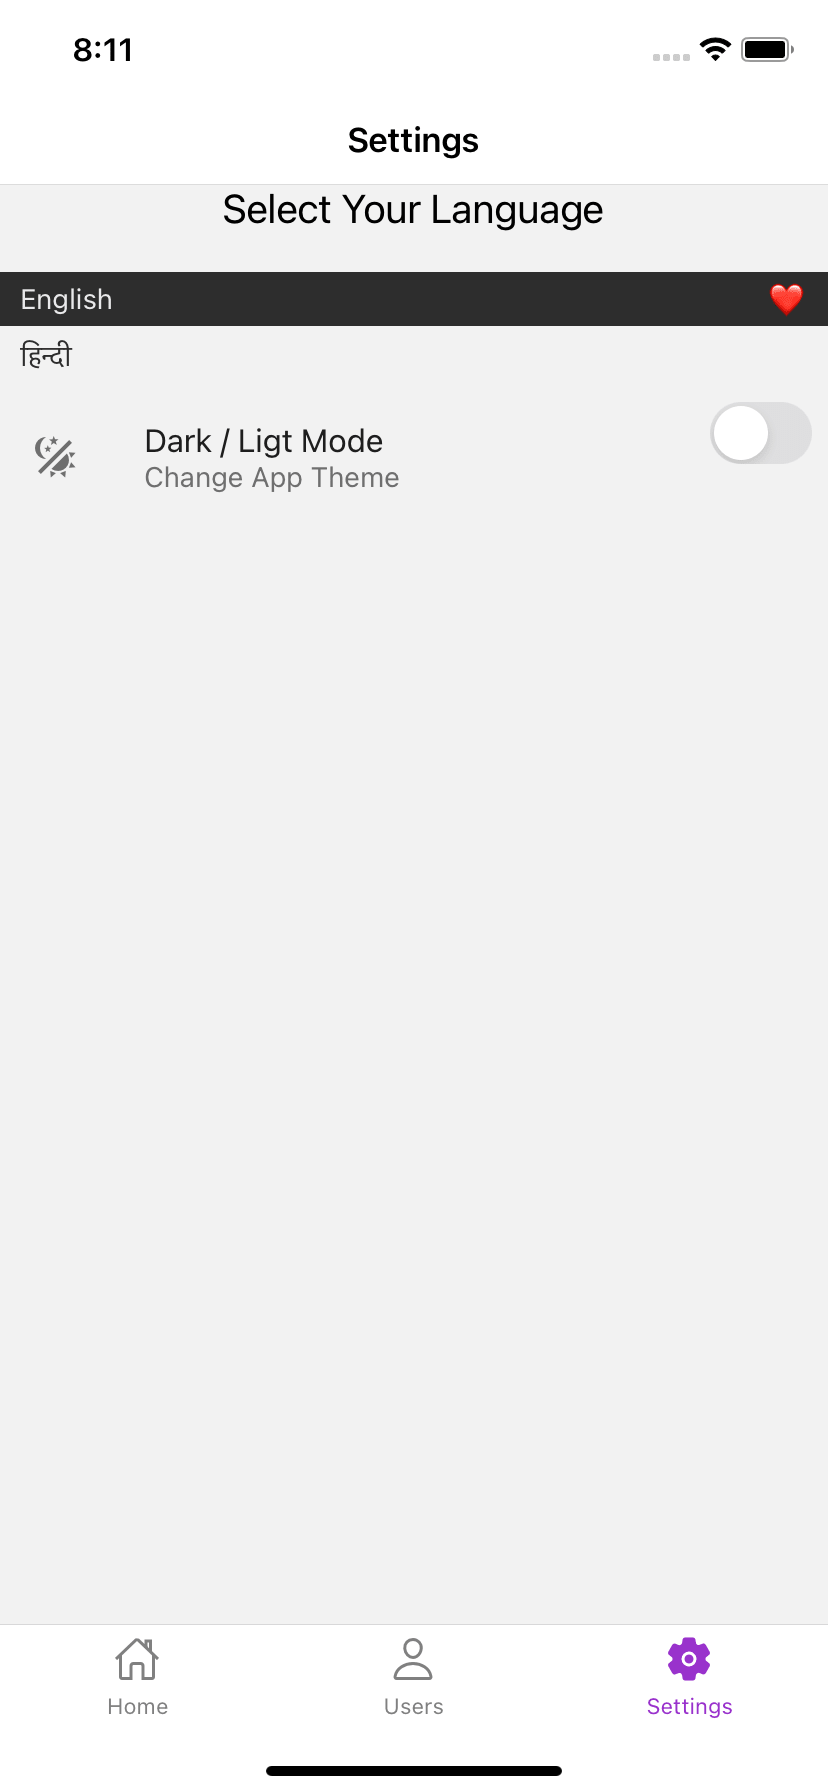
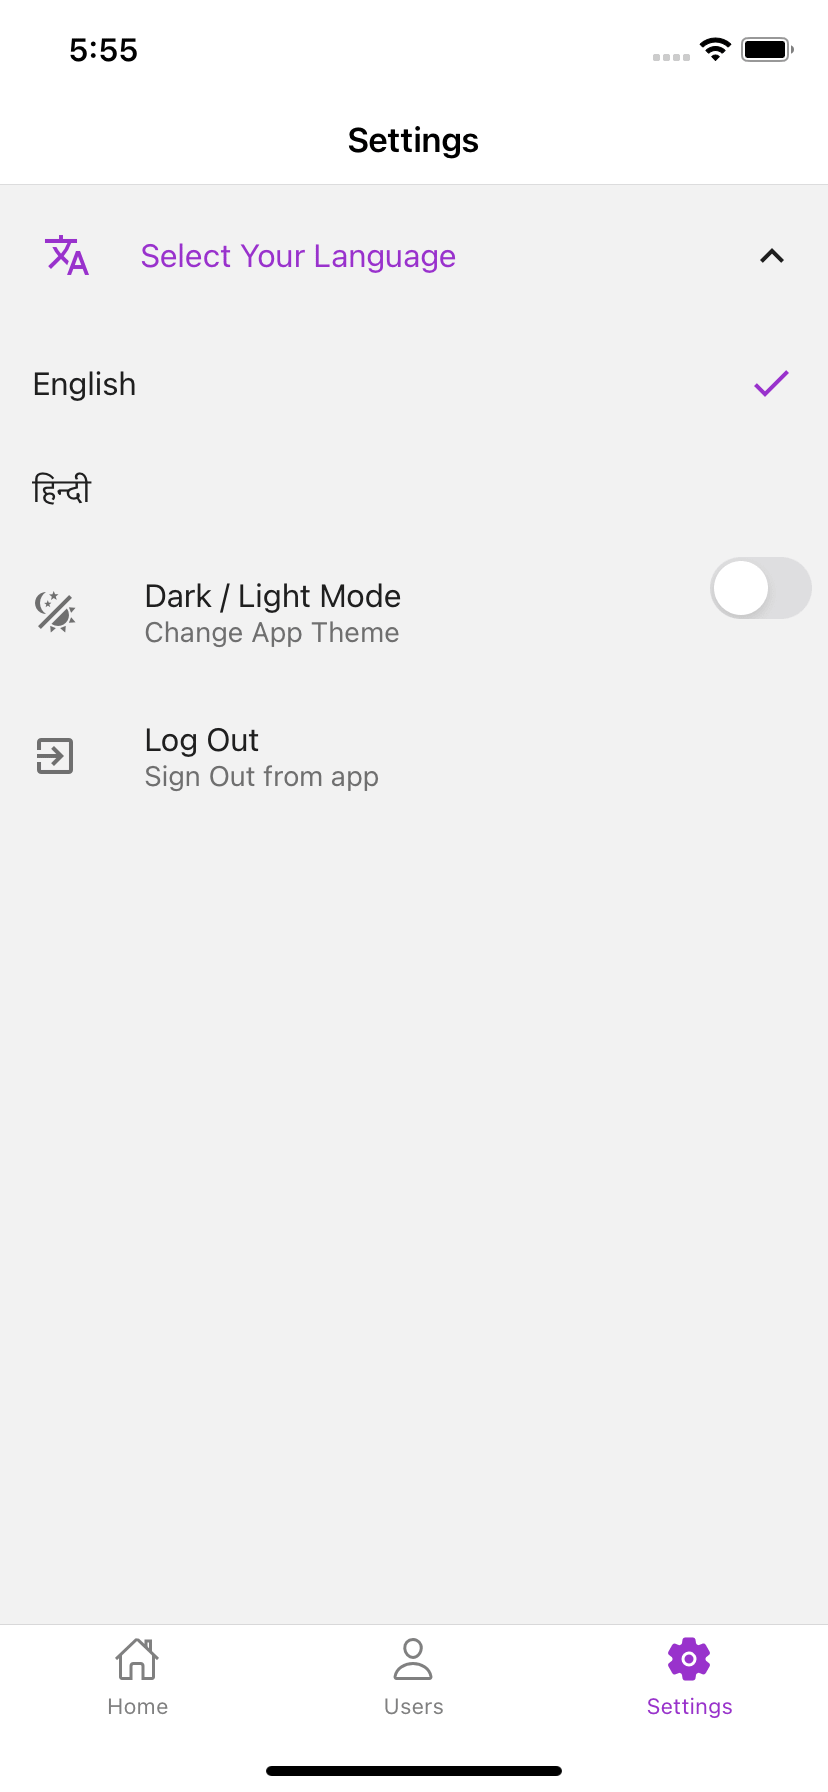
update settings page

diff --git a/src/components/LanguageSelector.tsx b/src/components/LanguageSelector.tsx
@@ -1,15 +1,13 @@
 import React from 'react';
 import {
   StyleSheet,
-  Text,
   View,
-  TouchableOpacity,
   Dimensions,
 } from 'react-native';
 import { useTranslation } from 'react-i18next';
-
+import { List } from 'react-native-paper';
+import { Colors } from 'Config/Colors';
 const { width } = Dimensions.get('window');
-
 const LANGS = [
   { lngCode: 'en', label: 'English' },
   { lngCode: 'hi', label: 'हिन्दी' },
@@ -17,29 +15,31 @@ const LANGS = [
 
 const LanguageSelector = () => {
   const { t, i18n } = useTranslation();
+  const [expanded, setExpanded] = React.useState(true);
+  const handlePress = () => setExpanded(!expanded);
   const selectedLngCode = i18n.language;
   const setLng = (lngCode: string) => i18n.changeLanguage(lngCode);
+
   return (
     <View style={styles.container}>
-      <View style={styles.titleContainer}>
-        <Text style={styles.select}>{t('languageSelector:selectLng')}</Text>
-      </View>
-      {LANGS.map((l) => {
-        const selected = l.lngCode === selectedLngCode;
-        return (
-          <TouchableOpacity
-            onPress={() => setLng(l.lngCode)}
-            key={l.lngCode}
-            disabled={selected}>
-            <View style={[styles.row, selected ? styles.selectedRow : {}]}>
-              <Text style={[selected ? styles.selectedText : styles.text]}>
-                {l.label}
-              </Text>
-              {selected && <Text>❤</Text>}
-            </View>
-          </TouchableOpacity>
-        );
-      })}
+      <List.Accordion
+        title={t('languageSelector:selectLng')}
+        expanded={expanded}
+        onPress={handlePress}
+        left={props => <List.Icon {...props} icon="translate" style={{ marginLeft: 6 }} />}>
+        {LANGS.map((l) => {
+          const selected = l.lngCode === selectedLngCode;
+          return (
+            <List.Item
+              disabled={selected}
+              key={l.lngCode}
+              onPress={() => setLng(l.lngCode)}
+              title={l.label}
+              right={props => selected ? <List.Icon {...props} color={Colors.primary} icon={"check"} /> : null}
+            />
+          );
+        })}
+      </List.Accordion>
     </View>
   );
 };
@@ -64,12 +64,10 @@ const styles = StyleSheet.create({
     paddingVertical: 5,
   },
   selectedRow: {
-    backgroundColor: 'rgb(45, 45, 45)',
+    backgroundColor: 'gray',
   },
   selectedText: {
-    color: 'rgb(231, 232, 235)',
+    // color: 'rgb(231, 232, 235)',
   },
-  text: {
-    color: 'rgb(45, 45, 45)',
-  },
+
 });

diff --git a/src/localization/hi/common.ts b/src/localization/hi/common.ts
@@ -9,5 +9,7 @@ export default {
   settings: "समायोजन",
   starterApp: "स्टार्टर ऐप",
   darkLightMode: "डार्क / लाइट मोड",
-  changeAppTheme: "ऐप थीम बदलें"
+  changeAppTheme: "ऐप थीम बदलें",
+  logOut: "लॉग आउट",
+  singOut: "ऐप से साइन आउट करें"
 };

diff --git a/src/screens/SettingsScreen/SettingsScreen.tsx b/src/screens/SettingsScreen/SettingsScreen.tsx
@@ -58,8 +58,8 @@ const SettingsScreen = () => {
         />
         <List.Item
           onPress={removeUser}
-          title="Log out"
-          description="Sing Out form app"
+          title={t('logOut')}
+          description={t('singOut')}
           left={(props) => <List.Icon {...props} icon="exit-to-app" />}
         />
       </View>

diff --git a/src/localization/en/common.ts b/src/localization/en/common.ts
@@ -9,5 +9,7 @@ export default {
   settings: "Settings",
   starterApp: "Starter App",
   darkLightMode: "Dark / Light Mode",
-  changeAppTheme: "Change App Theme"
+  changeAppTheme: "Change App Theme",
+  logOut: "Log Out",
+  singOut: "Sign Out from app"
 };
